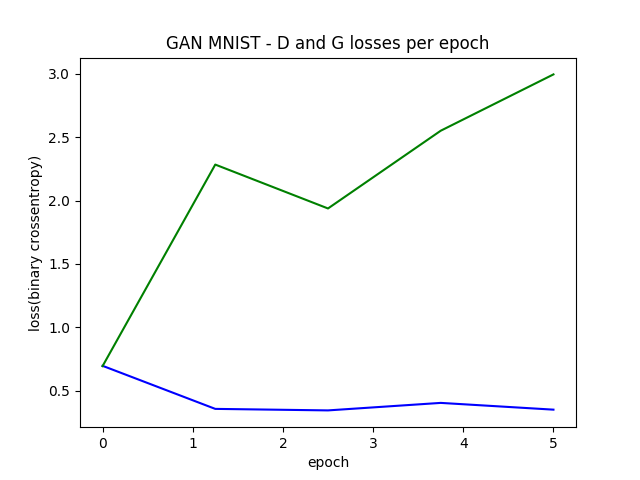
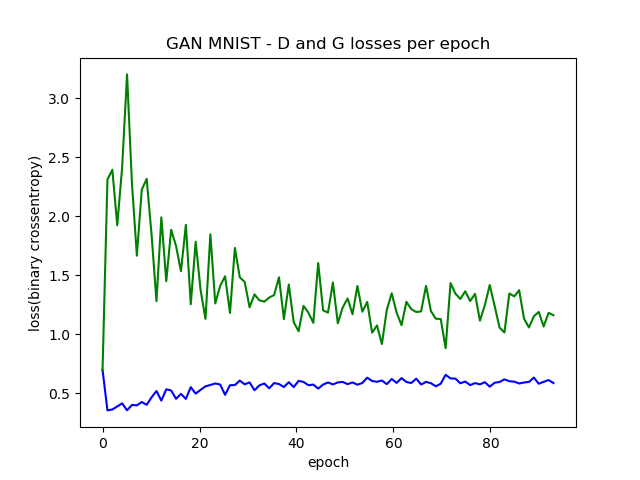
bug fixes and outputs

diff --git a/gan_pesquisa/Activations/BHAA.py b/gan_pesquisa/Activations/BHAA.py
@@ -1,0 +1,67 @@
+from keras import backend as K
+from keras.engine.topology import Layer
+import numpy as np
+from keras import initializers
+from keras.engine import InputSpec
+
+class BHAA(Layer):
+
+	def __init__(self,
+		lambda_initializer=initializers.Constant(value=1),
+		t1_initializer=initializers.glorot_normal(),
+		t2_initializer=initializers.glorot_normal(),
+		dominio_0_1=True,
+		shared_axes=None, **kwargs):
+		super(BHAA, self).__init__(**kwargs)
+
+		self.lambda_initializer = initializers.get(lambda_initializer)
+		self.t1_initializer = initializers.get(t1_initializer)
+		self.t2_initializer = initializers.get(t2_initializer)
+		self.dominio_0_1 = dominio_0_1
+
+		if(shared_axes == None):
+			self.shared_axes = None
+		elif not isinstance(shared_axes, (list, tuple)):
+			self.shared_axes = [shared_axes]
+		else:
+			self.shared_axes = list(shared_axes)
+
+	def build(self, input_shape):
+		param_shape = list(input_shape[1:])
+		self.param_broadcast = [False] * len(param_shape)
+		if self.shared_axes is not None:
+			for i in self.shared_axes:
+				param_shape[i - 1] = 1
+				self.param_broadcast[i - 1] = True
+
+		# lambda
+		self.l = self.add_weight(name='l', shape=param_shape, initializer=self.lambda_initializer)
+		# tau 1
+		self.t1 = self.add_weight(name='t1', shape=param_shape, initializer=self.t1_initializer)
+		# tau 2
+		self.t2 = self.add_weight(name='t2', shape=param_shape, initializer=self.t2_initializer)
+
+		axes = {}
+		if(self.shared_axes):
+			for i in range(1, len(input_shape)):
+				if(i not in self.shared_axes):
+					axes[i] = input_shape[i]
+
+		self.input_spec = InputSpec(ndim=len(input_shape), axes=axes)
+		self.built = True
+
+	def call(self, inputs):
+		# bi-hiperbolic assimetric adaptative
+		# bhaa(l, t1, t2) = h1 - h2
+		# h1 = sqrt(( (l^2)*((x + (1/(2*l)))^2) ) + t1^2)
+		# h2 = sqrt(( (l^2)*((x + (1/(2*l)))^2) ) + t2^2)
+		pot = 1
+		soma = 0
+		if(self.dominio_0_1):
+			pot = 2
+			soma = 0.5
+
+		h1 = K.sqrt( (K.square((K.pow(2.0, pot)*self.l*inputs) + 1.0)/K.pow(4.0,pot)) + K.square(self.t1) )
+		h2 = K.sqrt( (K.square((K.pow(2.0, pot)*self.l*inputs) - 1.0)/K.pow(4.0,pot)) + K.square(self.t2) )
+		
+		return (h1 - h2) + soma

diff --git a/gan_pesquisa/Activations/BHSA.py b/gan_pesquisa/Activations/BHSA.py
@@ -1,0 +1,64 @@
+from keras import backend as K
+from keras.engine.topology import Layer
+import numpy as np
+from keras import initializers
+from keras.engine import InputSpec
+
+class BHSA(Layer):
+
+	def __init__(self,
+		lambda_initializer=initializers.Constant(value=1),
+		t_initializer=initializers.glorot_normal(),
+		dominio_0_1=True,
+		shared_axes=None, **kwargs):
+		super(BHSA, self).__init__(**kwargs)
+
+		self.lambda_initializer = initializers.get(lambda_initializer)
+		self.t_initializer = initializers.get(t_initializer)
+		self.dominio_0_1 = dominio_0_1
+
+		if(shared_axes == None):
+			self.shared_axes = None
+		elif not isinstance(shared_axes, (list, tuple)):
+			self.shared_axes = [shared_axes]
+		else:
+			self.shared_axes = list(shared_axes)
+
+	def build(self, input_shape):
+		param_shape = list(input_shape[1:])
+		self.param_broadcast = [False] * len(param_shape)
+		if self.shared_axes is not None:
+			for i in self.shared_axes:
+				param_shape[i - 1] = 1
+				self.param_broadcast[i - 1] = True
+
+		# lambda
+		self.l = self.add_weight(name='l', shape=param_shape, initializer=self.lambda_initializer)
+		# tau 1
+		self.t = self.add_weight(name='t', shape=param_shape, initializer=self.t_initializer)
+
+		axes = {}
+		if(self.shared_axes):
+			for i in range(1, len(input_shape)):
+				if(i not in self.shared_axes):
+					axes[i] = input_shape[i]
+
+		self.input_spec = InputSpec(ndim=len(input_shape), axes=axes)
+		self.built = True
+
+	def call(self, inputs):
+		# bi-hiperbolic simetric adaptative
+		# bhsa(l, t) = h1 - h2
+		# h1 = sqrt(( (l^2)*((x + (1/(2*l)))^2) ) + t^2)
+		# h2 = sqrt(( (l^2)*((x + (1/(2*l)))^2) ) + t^2)
+		pot = 1
+		soma = 0
+		if(self.dominio_0_1):
+			pot = 2
+			soma = 0.5
+
+		h1 = K.sqrt( (K.square((K.pow(2.0, pot)*self.l*inputs) + 1.0)/K.pow(4.0,pot)) + K.square(self.t) )
+		h2 = K.sqrt( (K.square((K.pow(2.0, pot)*self.l*inputs) - 1.0)/K.pow(4.0,pot)) + K.square(self.t) )
+		
+		return (h1 - h2) + soma
+		

diff --git a/gan_pesquisa/Activations/SHReLU.py b/gan_pesquisa/Activations/SHReLU.py
@@ -1,0 +1,42 @@
+from keras import backend as K
+from keras.engine.topology import Layer
+import numpy as np
+from keras import initializers
+from keras.engine import InputSpec
+
+class SHReLU(Layer):
+
+	def __init__(self, alpha_initializer=initializers.Constant(value=0.1), shared_axes=None, **kwargs):
+		super(SHReLU, self).__init__(**kwargs)
+
+		self.alpha_initializer = initializers.get(alpha_initializer)
+
+		if(shared_axes == None):
+			self.shared_axes = None
+		elif not isinstance(shared_axes, (list, tuple)):
+			self.shared_axes = [shared_axes]
+		else:
+			self.shared_axes = list(shared_axes)
+
+	def build(self, input_shape):
+		param_shape = list(input_shape[1:])
+		self.param_broadcast = [False] * len(param_shape)
+		if self.shared_axes is not None:
+			for i in self.shared_axes:
+				param_shape[i - 1] = 1
+				self.param_broadcast[i - 1] = True
+
+		self.alpha = self.add_weight(name='alpha', shape=param_shape, initializer=self.alpha_initializer)
+
+		axes = {}
+		if(self.shared_axes):
+			for i in range(1, len(input_shape)):
+				if(i not in self.shared_axes):
+					axes[i] = input_shape[i]
+
+		self.input_spec = InputSpec(ndim=len(input_shape), axes=axes)
+		self.built = True
+
+	def call(self, inputs):
+		# shrelu(x,alpha) = (x + sqrt(x^2 + alpha^2)/2)
+		return (inputs + K.sqrt(K.square(inputs) + K.square(self.alpha)))/2.0

diff --git a/gan_pesquisa/Util.py b/gan_pesquisa/Util.py
@@ -2,6 +2,7 @@ import numpy as np
 from keras.datasets import mnist
 import matplotlib.pyplot as plt
 import os, shutil
+import time
 
 def convert_to_one_hot_vector(y, n_classes):
 	targets = np.array(y).reshape(-1)
@@ -48,7 +49,7 @@ def generate_graphics(times, d_lossses, g_losses, output_dir):
 	plt.savefig(os.path.join(output_dir, 'losses.png'))
 	# plt.show()
 
-def plot_generated_images(e, generatedImages, output_dir, dim=(5, 5), figsize=(10, 10)):
+def plot_generated_images(e, generatedImages, output_dir, dim=(5, 5), figsize=(5, 5)):
 	plt.close('all')
 
 	plt.figure(figsize=figsize)
@@ -63,3 +64,9 @@ def reset_dir(folder):
 	if os.path.exists(folder):
 		shutil.rmtree(folder)
 	os.makedirs(folder)
+
+def exec_time(start, msg):
+	end = time.time()
+	delta = end - start
+	if(delta > 60): print("Tempo: " + str(delta/60.0) + " min [" + msg + "]")
+	else: print("Tempo: " + str(int(delta)) + " s [" + msg + "]")

diff --git a/gan_pesquisa/main.py b/gan_pesquisa/main.py
@@ -1,8 +1,11 @@
 from GAN import *
 import Util
 import numpy as np
+import time
 
 def main():
+	start = time.time()
+
 	np.random.seed(42)
 	X_train, y_train, X_test, y_test = Util.load_mnist_data()
 
@@ -10,7 +13,9 @@ def main():
 	Util.reset_dir(output_dir)
 
 	gan = GAN()
-	gan.train(X_train, epochs=1000, batch_size=128, verbose_step=250, output_dir=output_dir)
+	gan.train(X_train, output_dir=output_dir)
+
+	Util.exec_time(start, "Running")
 
 
 if __name__ == '__main__':
